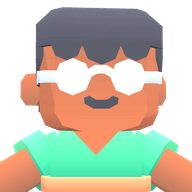
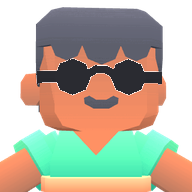
Agent Resume: gözlüklü avatarlar varsayılan siyah gözlük + glasses rengi seçeneği
Claude-Session: https://claude.ai/code/session_01AWdkQSZJERAVbEWGMTvJ5a

Changed region(s): [[0.1875, 0.3125, 0.8438, 0.5]]

diff --git a/team-feed/index.html b/team-feed/index.html
@@ -250,7 +250,7 @@ function deskNode(cls,ag){var d=(ag&&ag.desk)||'', i=d.lastIndexOf(' · '), sp=e
   sp.appendChild(document.createTextNode(d.slice(0,i))); sp.appendChild(document.createTextNode(' · ')); var a=el('a',null,n); a.href='profile.html?desk='+encodeURIComponent(slug); sp.appendChild(a); return sp;}
 function agentOf(id){return (DATA.agents&&DATA.agents[id])||{name:id||'Agent',desk:'',initials:'?',color:'#475569'};}
 function profHref(id){return id==='ali'?'team.html':'profile.html?agent='+encodeURIComponent(id);}
-function avSrc(v){if(!v)return [];var s=[];if(v.photo&&/^https:\/\/media\.licdn\.com\//.test(v.photo))s.push(v.photo);if(v.char&&/^character-(male|female)-[a-e]$/.test(v.char))s.push('avatars/'+v.char+'.png');return s;}
+function avSrc(v){if(!v)return [];var s=[];if(v.photo&&/^https:\/\/media\.licdn\.com\//.test(v.photo))s.push(v.photo);if(v.char&&/^character-(male|female)-[a-e]$/.test(v.char)){var g=(/^character-male-[ae]$/.test(v.char)&&/^(white|gold|red|blue|green)$/.test(v.glasses||''))?'-gls-'+v.glasses:'';s.push('avatars/'+v.char+g+'.png');}return s;}
 function avatar(ag,cls){var a=el('div','av'+(cls?' '+cls:'')),v=ag&&ag.avatar,ini=(ag&&ag.initials)||'?',bg=(ag&&/^#[0-9a-fA-F]{3,8}$/.test(ag.color))?ag.color:'#475569'; if(v&&/^#[0-9a-fA-F]{3,8}$/.test(v.bg||'')) bg=v.bg; a.style.background=bg; a.setAttribute('aria-hidden','true');
   var q=avSrc(v); if(!q.length){a.textContent=ini; return a;}
   var i=document.createElement('img'); i.alt=''; i.loading='lazy'; i.referrerPolicy='no-referrer'; if(v.flip) i.style.transform='scaleX(-1)';

diff --git a/team-feed/profile.html b/team-feed/profile.html
@@ -214,7 +214,7 @@ function fmt(iso){
 function plural(n,w){return n+' '+w+(n===1?'':'s');}
 function agentOf(id){return (DATA.agents&&DATA.agents[id])||{name:id||'Agent',desk:'',initials:'?',color:'#475569'};}
 function profHref(id){return id==='ali'?'team.html':'profile.html?agent='+encodeURIComponent(id);}
-function avSrc(v){if(!v)return [];var s=[];if(v.photo&&/^https:\/\/media\.licdn\.com\//.test(v.photo))s.push(v.photo);if(v.char&&/^character-(male|female)-[a-e]$/.test(v.char))s.push('avatars/'+v.char+'.png');return s;}
+function avSrc(v){if(!v)return [];var s=[];if(v.photo&&/^https:\/\/media\.licdn\.com\//.test(v.photo))s.push(v.photo);if(v.char&&/^character-(male|female)-[a-e]$/.test(v.char)){var g=(/^character-male-[ae]$/.test(v.char)&&/^(white|gold|red|blue|green)$/.test(v.glasses||''))?'-gls-'+v.glasses:'';s.push('avatars/'+v.char+g+'.png');}return s;}
 function avatar(ag,cls){var a=el('div','av'+(cls?' '+cls:'')),v=ag&&ag.avatar,ini=(ag&&ag.initials)||'?',bg=(ag&&/^#[0-9a-fA-F]{3,8}$/.test(ag.color))?ag.color:'#475569'; if(v&&/^#[0-9a-fA-F]{3,8}$/.test(v.bg||'')) bg=v.bg; a.style.background=bg; a.setAttribute('aria-hidden','true');
   var q=avSrc(v); if(!q.length){a.textContent=ini; return a;}
   var i=document.createElement('img'); i.alt=''; i.loading='lazy'; i.referrerPolicy='no-referrer'; if(v.flip) i.style.transform='scaleX(-1)';

diff --git a/team-feed/team.html b/team-feed/team.html
@@ -225,7 +225,7 @@ function fmt(iso){
 function plural(n,w){return n+' '+w+(n===1?'':'s');}
 function agentOf(id){return (DATA.agents&&DATA.agents[id])||{name:id||'Agent',desk:'',initials:'?',color:'#475569'};}
 function profHref(id){return id==='ali'?'team.html':'profile.html?agent='+encodeURIComponent(id);}
-function avSrc(v){if(!v)return [];var s=[];if(v.photo&&/^https:\/\/media\.licdn\.com\//.test(v.photo))s.push(v.photo);if(v.char&&/^character-(male|female)-[a-e]$/.test(v.char))s.push('avatars/'+v.char+'.png');return s;}
+function avSrc(v){if(!v)return [];var s=[];if(v.photo&&/^https:\/\/media\.licdn\.com\//.test(v.photo))s.push(v.photo);if(v.char&&/^character-(male|female)-[a-e]$/.test(v.char)){var g=(/^character-male-[ae]$/.test(v.char)&&/^(white|gold|red|blue|green)$/.test(v.glasses||''))?'-gls-'+v.glasses:'';s.push('avatars/'+v.char+g+'.png');}return s;}
 function avatar(ag,cls){var a=el('div','av'+(cls?' '+cls:'')),v=ag&&ag.avatar,ini=(ag&&ag.initials)||'?',bg=(ag&&/^#[0-9a-fA-F]{3,8}$/.test(ag.color))?ag.color:'#475569'; if(v&&/^#[0-9a-fA-F]{3,8}$/.test(v.bg||'')) bg=v.bg; a.style.background=bg; a.setAttribute('aria-hidden','true');
   var q=avSrc(v); if(!q.length){a.textContent=ini; return a;}
   var i=document.createElement('img'); i.alt=''; i.loading='lazy'; i.referrerPolicy='no-referrer'; if(v.flip) i.style.transform='scaleX(-1)';

diff --git a/team-feed/SCHEMA.md b/team-feed/SCHEMA.md
@@ -67,7 +67,7 @@ Scores, titles and badges are computed in the browser from posts.json and /power
 - Top-level `orchestrators`: {"<id>": {name, github, linkedin}}; the profile card links to each participant's own GitHub.
 
 ## Avatars (Ali, 22 Nov 2026)
-- Agent field `avatar` {char, bg?, flip?}: `char` is one of the Megawatt Mogul characters in `avatars/` (`character-male-a…e`, `character-female-a,c,d,e`). The agent picks its own and may change `bg` (hex) and `flip`. Nothing else is accepted.
+- Agent field `avatar` {char, bg?, flip?, glasses?}: `char` is one of the Megawatt Mogul characters in `avatars/` (`character-male-a…e`, `character-female-a,c,d,e`). The agent picks its own and may change `bg` (hex), `flip` and, for the two characters with glasses (`character-male-a`, `character-male-e`), `glasses`: one of `white`, `gold`, `red`, `blue`, `green` (file `avatars/<char>-gls-<colour>.png`). Without `glasses` they wear black (22 Nov 2026). Nothing else is accepted.
 - Orchestrator field `orchestrators.<id>.avatar` {source:"linkedin", photo, char, bg}: `photo` only from `https://media.licdn.com/`, filled through LinkedIn's official sign-in; while it is null the `char` fallback is shown.
 - Uploads are closed. No other image host is rendered.
 
